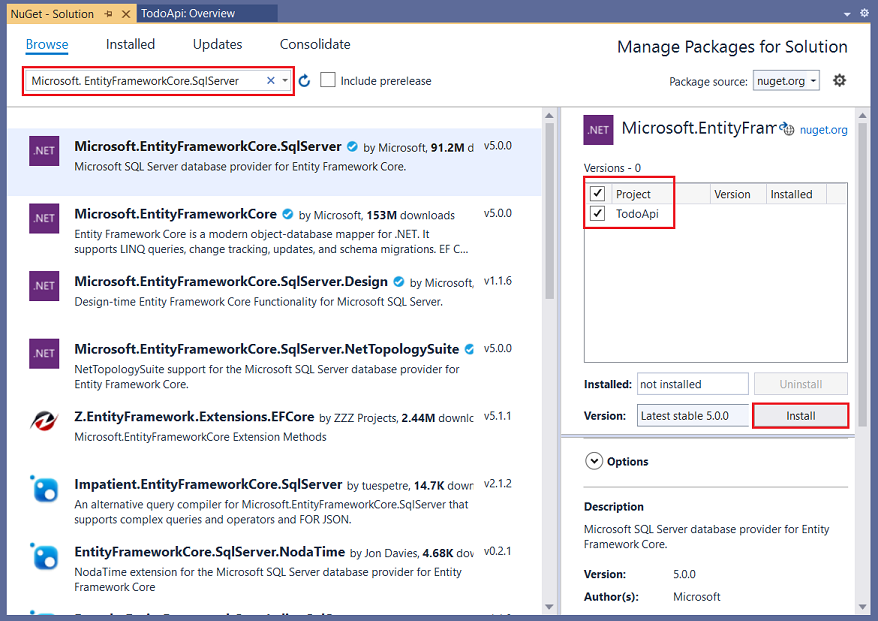
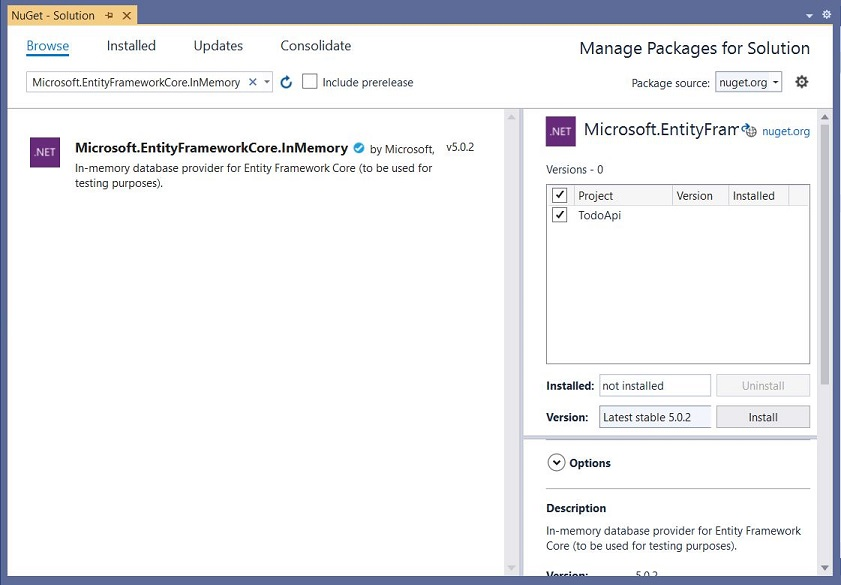
remove unnecessary NuGet Pkg from WebAPI

Changed region(s): [[0.0, 0.0, 1.0, 1.0], [0.5565, 0.3385, 0.5874, 0.3692]]

diff --git a/aspnetcore/tutorials/first-web-api.md b/aspnetcore/tutorials/first-web-api.md
@@ -80,7 +80,6 @@ The following diagram shows the design of the app.
    ```dotnetcli
    dotnet new webapi -o TodoApi
    cd TodoApi
-   dotnet add package Microsoft.EntityFrameworkCore.SqlServer
    dotnet add package Microsoft.EntityFrameworkCore.InMemory
    code -r ../TodoApi
    ```
@@ -113,7 +112,6 @@ The following diagram shows the design of the app.
 Open a command terminal in the project folder and run the following commands:
 
    ```dotnetcli
-   dotnet add package Microsoft.EntityFrameworkCore.SqlServer
    dotnet add package Microsoft.EntityFrameworkCore.InMemory
    ```
 
@@ -253,13 +251,10 @@ The *database context* is the main class that coordinates Entity Framework funct
 ### Add NuGet packages
 
 * From the **Tools** menu, select **NuGet Package Manager > Manage NuGet Packages for Solution**.
-* Select the **Browse** tab, and then enter **Microsoft.EntityFrameworkCore.SqlServer** in the search box.
-<!-- https://github.com/dotnet/AspNetCore.Docs/issues/19782 Delete this line at RTM -->
+* Select the **Browse** tab, and then enter **Microsoft.EntityFrameworkCore.InMemory** in the search box.
 * Select **Microsoft.EntityFrameworkCore.SqlServer** in the left pane.
 * Select the **Project** check box in the right pane and then select **Install**.
-* Use the preceding instructions to add the **Microsoft.EntityFrameworkCore.InMemory** NuGet package.
 
-<!-- https://github.com/dotnet/AspNetCore.Docs/issues/19782 Update this image at RTM -->
 ![NuGet Package Manager](first-web-api/_static/5/vsNuGet.png)
 
 ## Add the TodoContext database context
